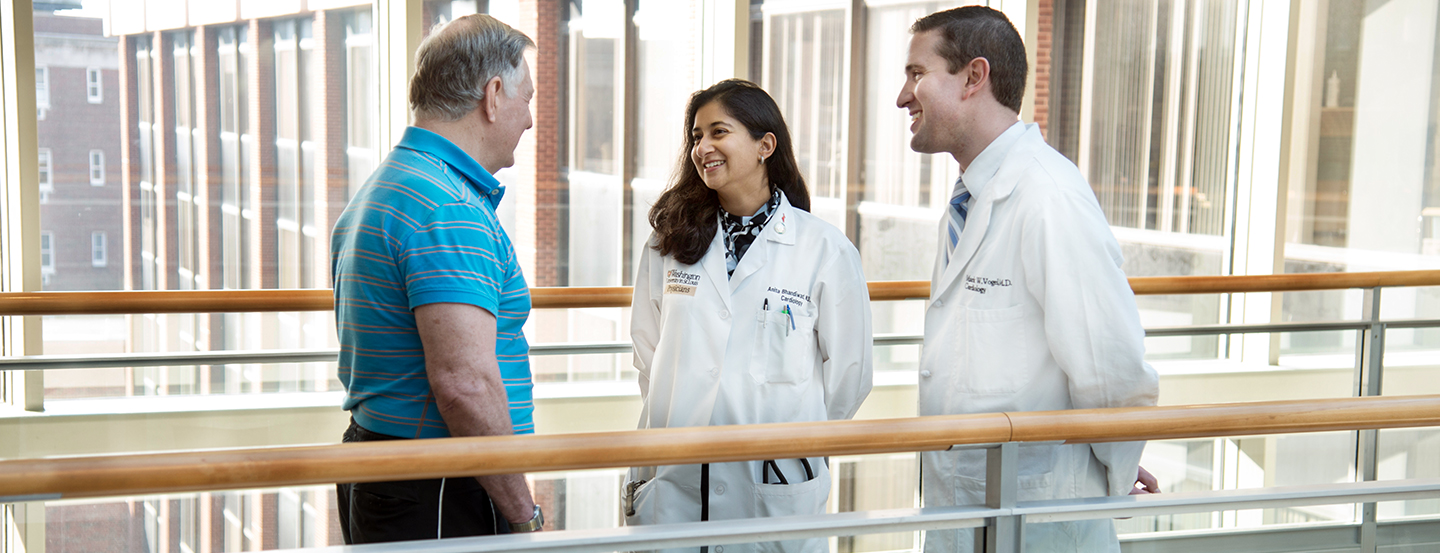
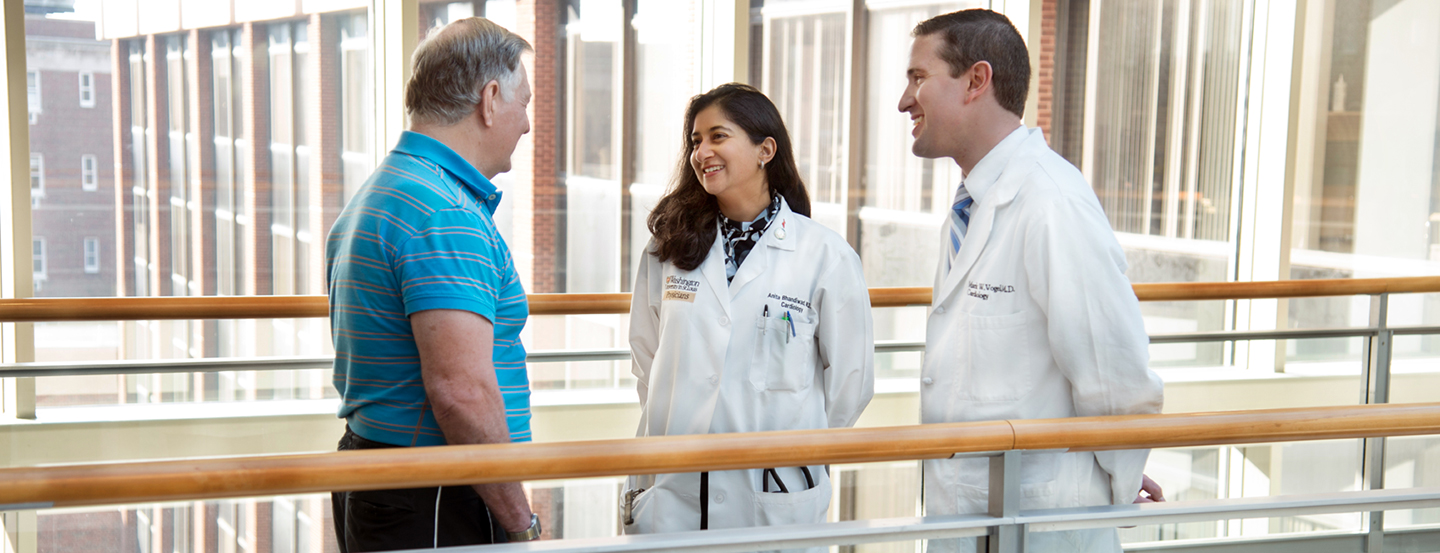
New homepage image

diff --git a/style.css b/style.css
@@ -4,7 +4,7 @@ Theme URI: 			http://medicine.wustl.edu
 Description: 		Main School of Medicine site theme
 Author: 	 		Medical Public Affairs
 Author URI:			http://medicine.wustl.edu
-Version:	14.06.12.15
+Version:	14.06.13.1
 
 License: GNU General Public License v2 or later
 License URI: http://www.gnu.org/licenses/gpl-2.0.html
